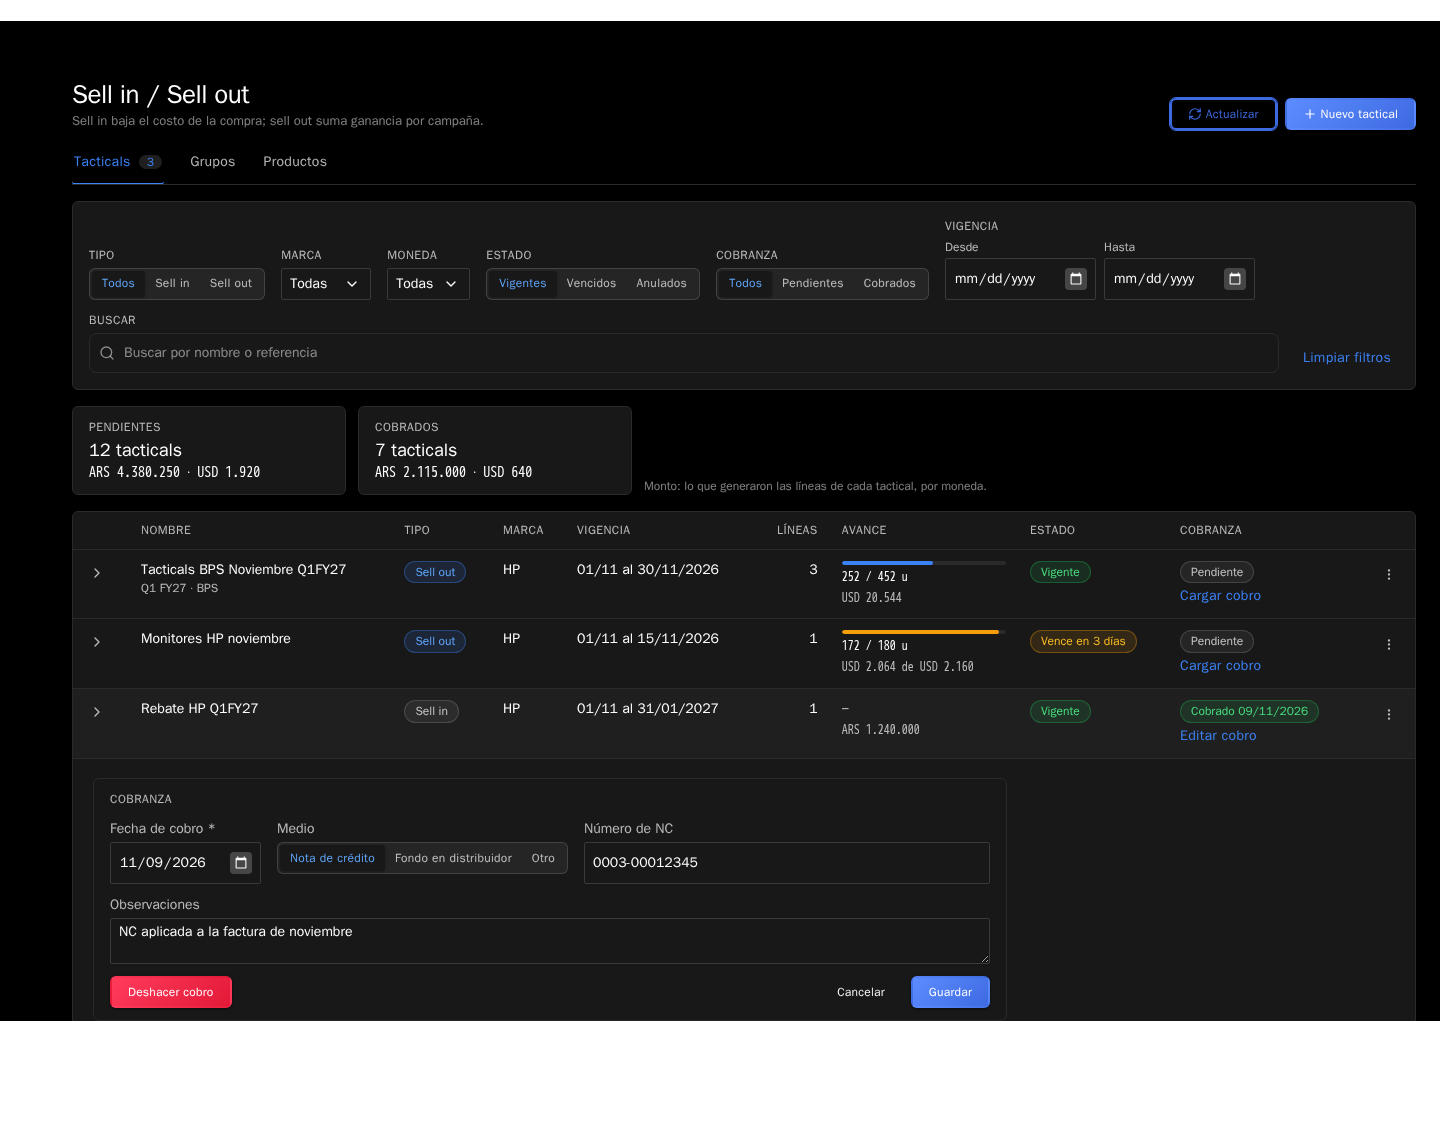
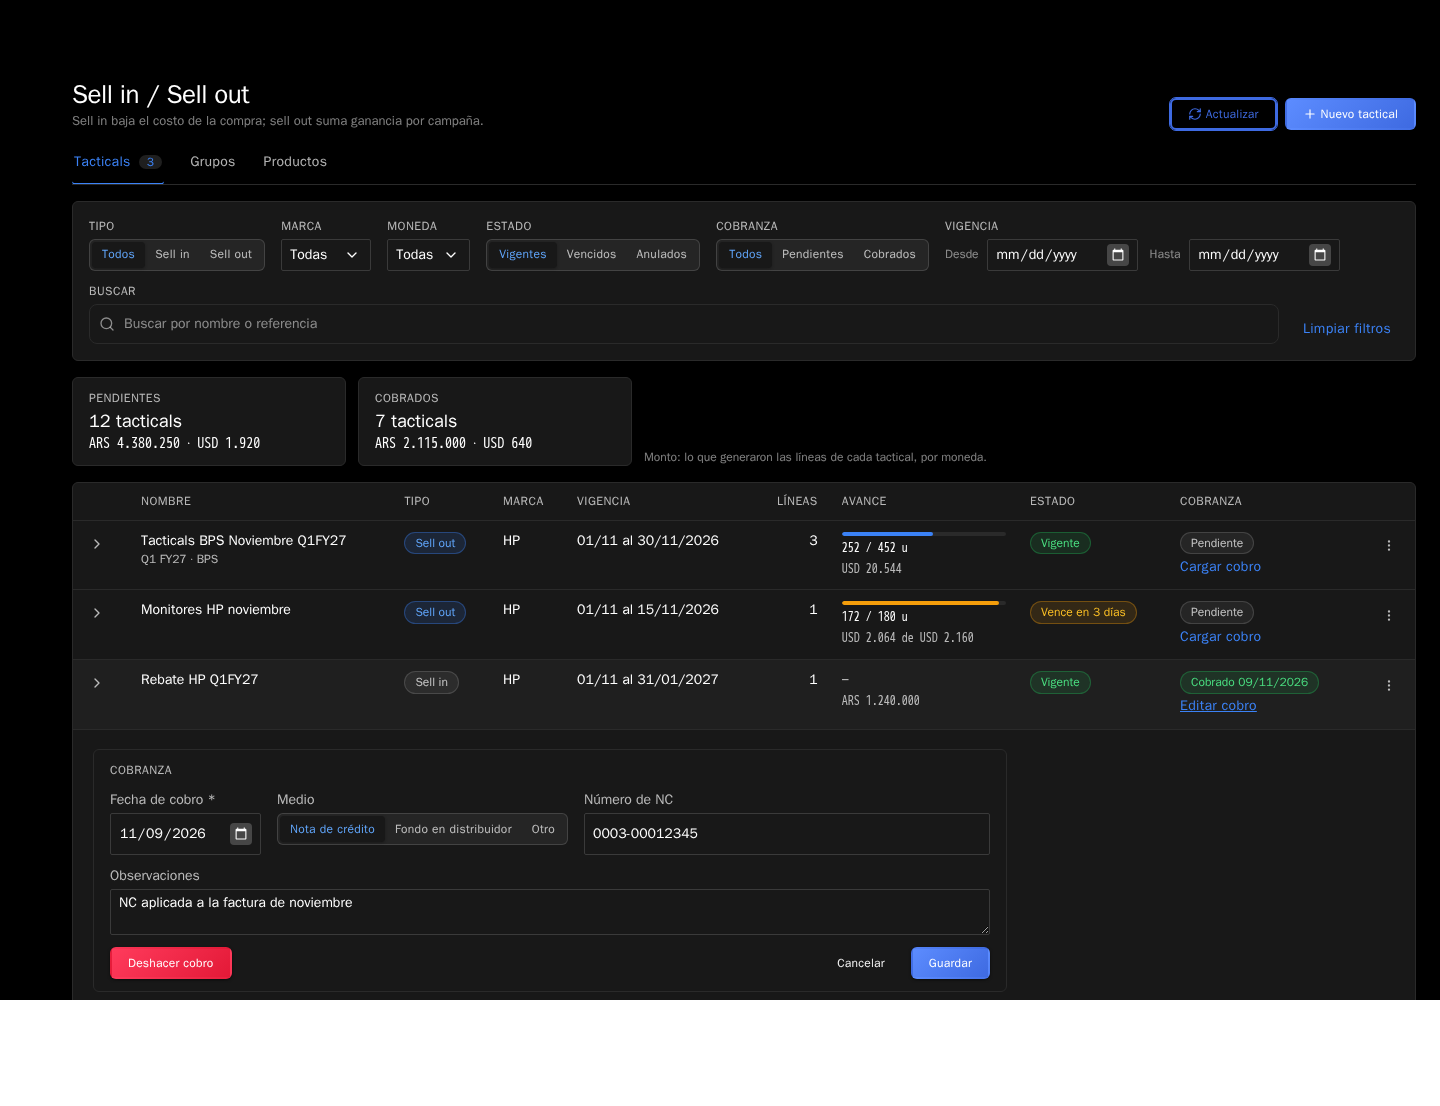
fix(tacticals): inline Desde/Hasta prefixes in the list filter
Vigencia had its own Desde/Hasta label line, so its date inputs sat 10px
below the other filters. Same pattern as the tactical modal (#2177); the
visual test pins the inputs to the Marca select's row.

diff --git a/frontend/src/components/tacticals/TacticalsList.jsx b/frontend/src/components/tacticals/TacticalsList.jsx
@@ -158,17 +158,23 @@ export default function TacticalsList({ marcas = [], version = 0, puedeGestionar
           <span className={styles.label}>Cobranza</span>
           <SegmentedControl label="Cobranza" options={COBRANZAS} value={filtros.cobranza} onChange={(cobranza) => filtrar({ cobranza })} />
         </div>
-        <fieldset className={styles.vigencia}>
-          <legend className={styles.label}>Vigencia</legend>
-          <label className={styles.fecha}>
-            <span className={styles.subLabel}>Desde</span>
-            <input type="date" className={styles.control} value={filtros.desde} onChange={(e) => filtrar({ desde: e.target.value })} />
-          </label>
-          <label className={styles.fecha}>
-            <span className={styles.subLabel}>Hasta</span>
-            <input type="date" className={styles.control} value={filtros.hasta} onChange={(e) => filtrar({ hasta: e.target.value })} />
-          </label>
-        </fieldset>
+        {/* Desde/Hasta are inline prefixes (as Nuevo tactical's Vigencia, #2177): one label line like the other filters,
+            so every control shares the same baseline. */}
+        <div className={styles.campo} role="group" aria-labelledby="tacticals-vigencia">
+          <span id="tacticals-vigencia" className={styles.label}>
+            Vigencia
+          </span>
+          <div className={styles.vigencia}>
+            <label className={styles.fecha}>
+              <span className={styles.prefix}>Desde</span>
+              <input type="date" className={`${styles.control} ${styles.fechaControl}`} value={filtros.desde} onChange={(e) => filtrar({ desde: e.target.value })} />
+            </label>
+            <label className={styles.fecha}>
+              <span className={styles.prefix}>Hasta</span>
+              <input type="date" className={`${styles.control} ${styles.fechaControl}`} value={filtros.hasta} onChange={(e) => filtrar({ hasta: e.target.value })} />
+            </label>
+          </div>
+        </div>
         <div className={`${styles.campo} ${styles.buscar}`}>
           <span className={styles.label}>Buscar</span>
           <SearchInput value={filtros.q} onChange={(q) => filtrar({ q })} debounce={300} placeholder="Buscar por nombre o referencia" />

diff --git a/frontend/src/components/tacticals/TacticalsList.module.css b/frontend/src/components/tacticals/TacticalsList.module.css
@@ -31,11 +31,6 @@
   color: var(--cf-text-secondary);
 }
 
-.subLabel {
-  font-size: var(--font-xs);
-  color: var(--cf-text-secondary);
-}
-
 .control {
   min-height: 32px;
   padding: 4px 8px;
@@ -46,24 +41,29 @@
   border-radius: var(--radius-sm);
 }
 
+/* Vigencia: Desde/Hasta read as prefixes on the inputs' own row (as Nuevo tactical, #2177), so the field has one label
+   line and its inputs sit on the other filters' baseline. */
 .vigencia {
-  display: grid;
-  grid-template-columns: 1fr 1fr;
-  gap: var(--space-2);
-  padding: 0;
-  margin: 0;
-  border: 0;
-}
-
-.vigencia > legend {
-  margin-bottom: var(--space-1);
-  padding: 0;
+  display: flex;
+  gap: var(--space-3);
 }
 
 .fecha {
   display: flex;
-  flex-direction: column;
-  gap: 2px;
+  align-items: center;
+  gap: var(--space-2);
+}
+
+.prefix {
+  font-size: var(--font-xs);
+  color: var(--cf-text-tertiary);
+  white-space: nowrap;
+}
+
+/* A date input is taller than a select in Chromium (its calendar button): held to the other controls' height. */
+.fechaControl {
+  box-sizing: border-box;
+  height: 32px;
 }
 
 .limpiar {

diff --git a/frontend/src/test/visual/tacticalCobranza.visual.test.jsx b/frontend/src/test/visual/tacticalCobranza.visual.test.jsx
@@ -103,6 +103,13 @@ describe.each([
       );
 
       await expect.element(screen.getByRole('region', { name: 'Cobranza de los tacticals' })).toBeVisible();
+      // Vigencia's Desde/Hasta are inline prefixes: its date inputs share the other filters' row (owner, as #2177).
+      const marca = screen.getByLabelText('Marca').element().getBoundingClientRect();
+      for (const fecha of document.querySelectorAll('input[type="date"]')) {
+        const caja = fecha.getBoundingClientRect();
+        expect(Math.abs(caja.top - marca.top)).toBeLessThanOrEqual(1);
+        expect(Math.abs(caja.bottom - marca.bottom)).toBeLessThanOrEqual(1);
+      }
       await screen.getByRole('button', { name: 'Editar cobro de Rebate HP Q1FY27' }).click();
       const campo = { nota_credito: 'Número de NC', fondo_distribuidor: 'Distribuidor', otro: 'Detalle' }[medio];
       await expect.element(screen.getByLabelText(campo)).toBeVisible();
